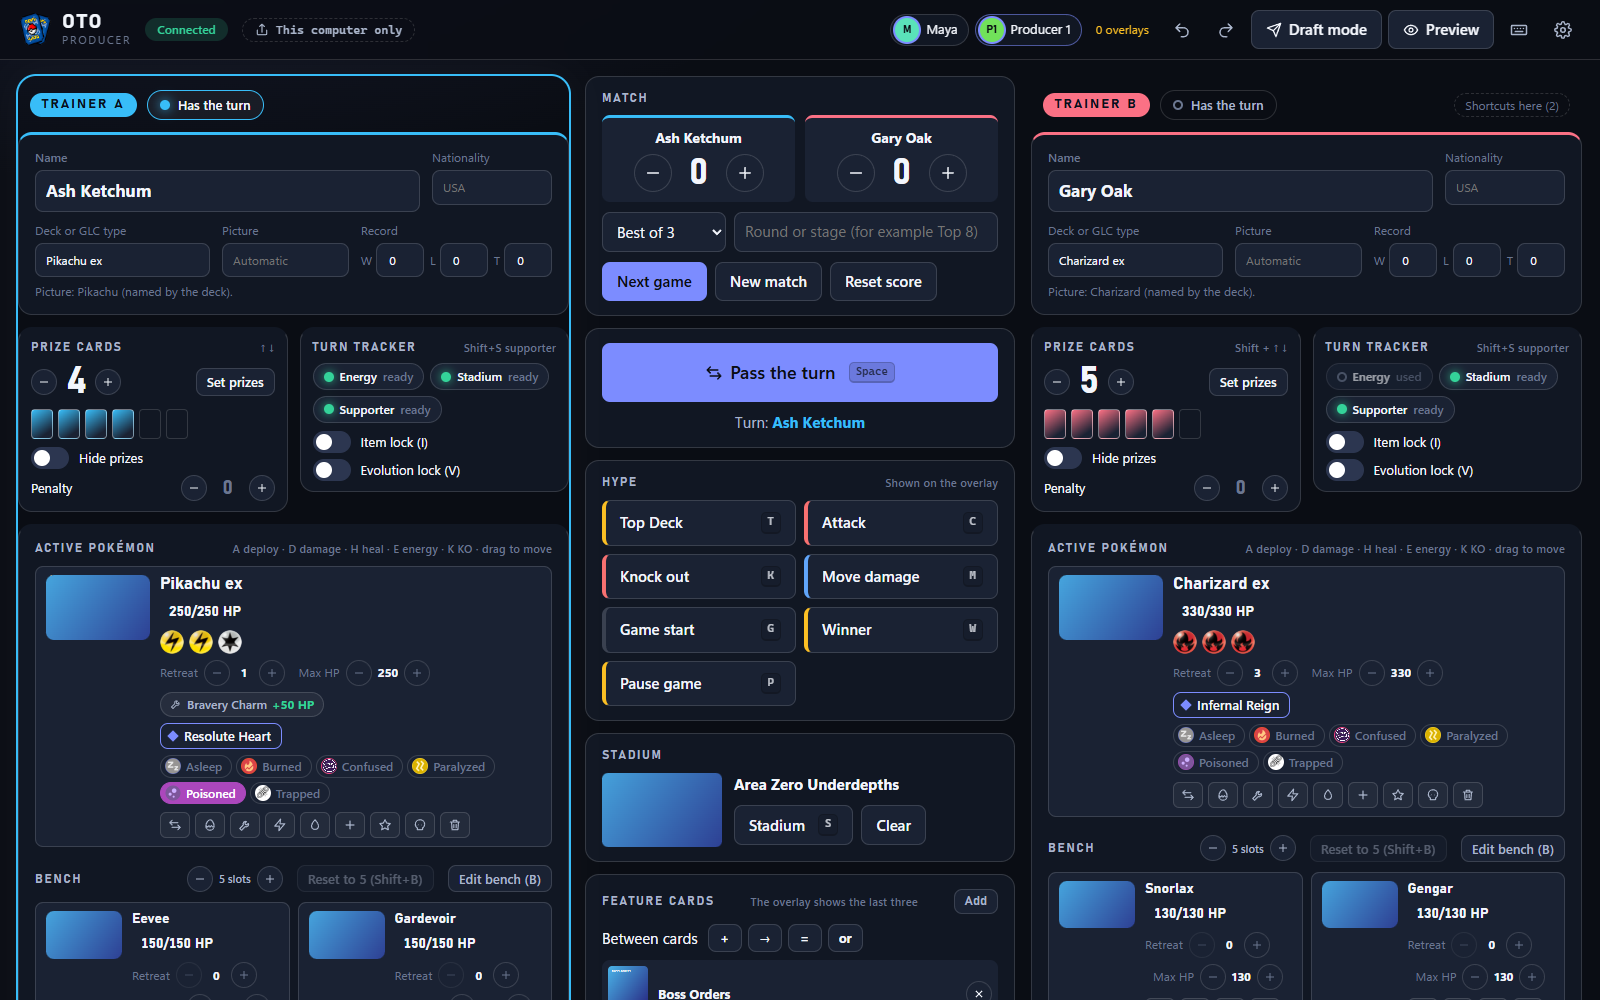
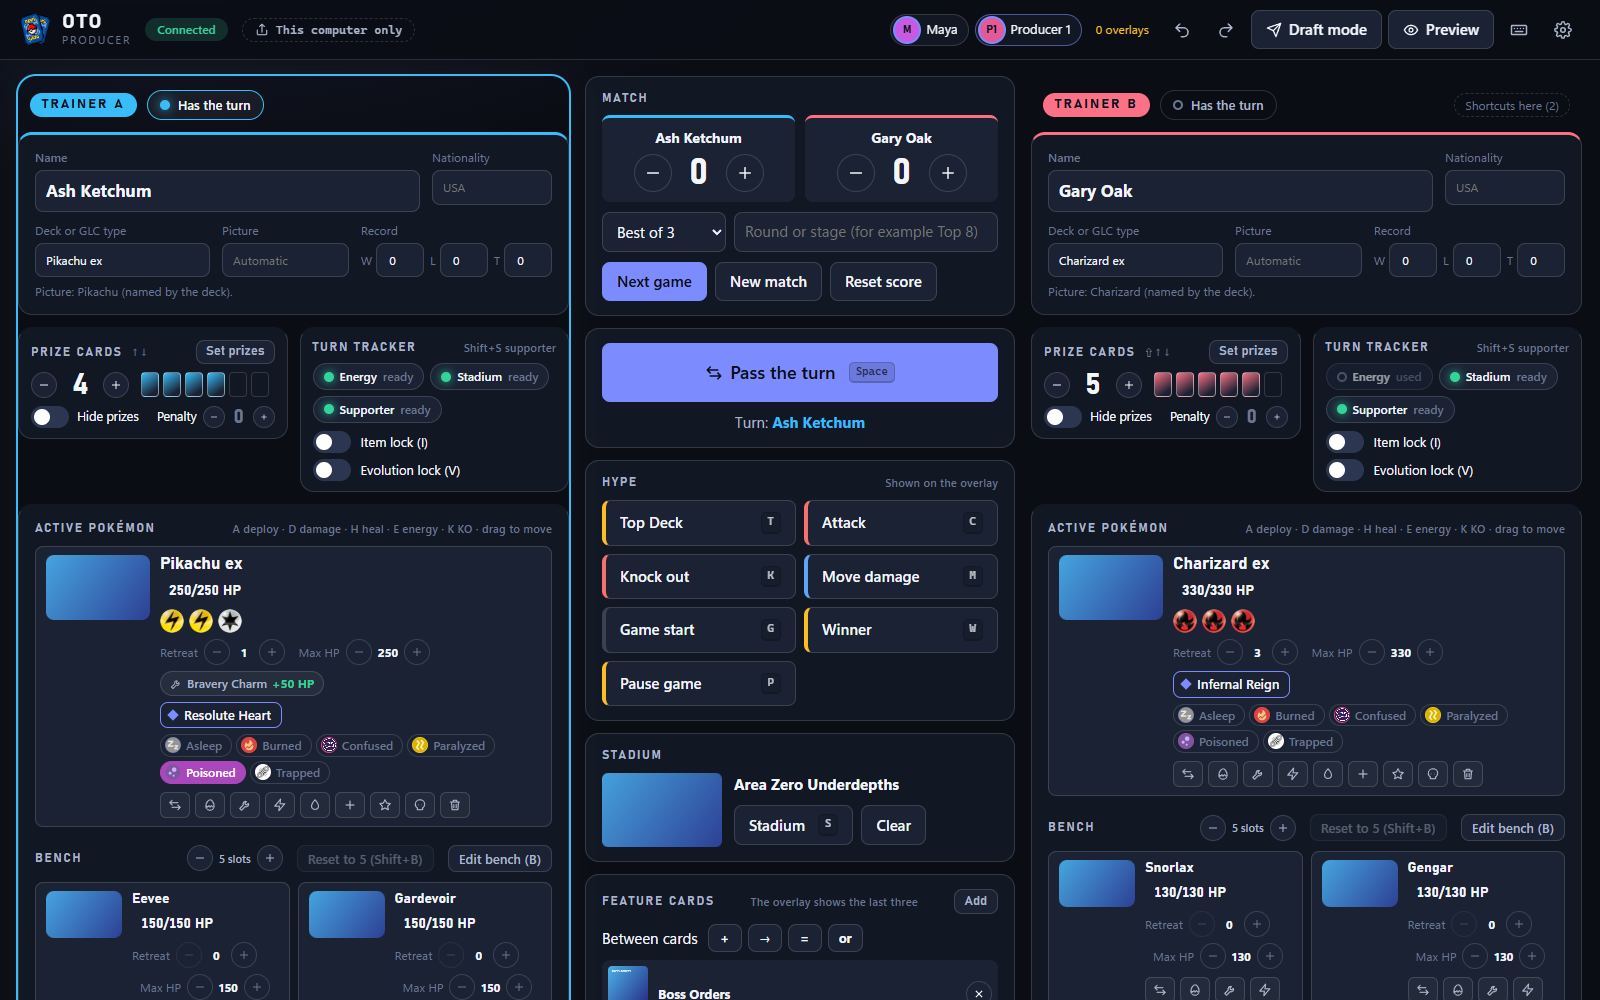
feat: a shorter Prize cards box in the control panel
The box of the prize cards in each trainer panel went from 185 px to about 112 px: the Set prizes button is in the title, the count has its six pips beside it, and the Hide prizes switch has the penalty beside it. The key hint of the second trainer is shorter (⇧ ↑ ↓) so the title stays on one line. A test keeps it short and checks that the pips, the switch and the penalty still work from their new places. README picture and CHANGELOG updated.

diff --git a/public/css/control.css b/public/css/control.css
@@ -257,12 +257,21 @@ body.drafting .trainer-panel { outline: 2px dashed rgba(251, 191, 36, 0.5); outl
 .record label { flex-direction: row; align-items: center; gap: 4px; }
 .record input { width: 48px; padding-left: 4px; padding-right: 4px; text-align: center; }
 
-.prize-row { display: flex; align-items: center; gap: 8px; }
+.prize-row { display: flex; flex-wrap: wrap; align-items: center; gap: 6px 8px; }
 .prize-row .prize-number { min-width: 22px; text-align: center; }
-.prizes.compact .pips { margin: 8px 0 0; }
-.prize-extra { display: flex; flex-direction: column; gap: 6px; margin-top: 8px; }
-.prize-extra .switch { font-size: 13px; }
-.prize-extra .penalty-row { margin-top: 0; gap: 8px; }
+/* the box of the prize cards: the title has the button that sets the cards, the count has its pips beside it, and the switch has the penalty beside it */
+.prizes.compact .block-title { margin-bottom: 6px; }
+.prizes.compact .block-title .hint { margin-left: 0; }
+.prizes.compact .block-title .set-prizes { margin-left: auto; }
+.prizes.compact .prize-number { min-width: 30px; font-size: 30px; }
+.prizes.compact .pips { gap: 4px; margin-left: 4px; }
+.prizes.compact .pip { width: 18px; height: 25px; }
+.prize-extra { display: flex; flex-wrap: wrap; align-items: center; justify-content: space-between; gap: 6px 10px; margin-top: 6px; }
+.prize-extra .switch { gap: 8px; font-size: 12.5px; }
+.prize-extra .penalty-row { margin-top: 0; gap: 6px; }
+.prize-extra .penalty-label { margin-right: 0; font-size: 12.5px; }
+.prize-extra .penalty-row .round-btn.small { width: 22px; height: 22px; }
+.prize-extra .penalty-number { min-width: 16px; }
 .prize-number { min-width: 44px; text-align: center; font: 800 38px/1 var(--font-display); font-variant-numeric: tabular-nums; }
 .pips { display: flex; gap: 5px; }
 .pip { position: relative; overflow: hidden; width: 22px; height: 30px; padding: 0; border-radius: 4px; border: 1px solid var(--border); background: transparent; transition: background var(--transition), transform var(--transition); }
@@ -757,3 +766,7 @@ body.dragging::after { content: 'Drop a .oto file to install it'; position: fixe
 /* the tabs of the crop selector (the Active Pokémon, the bench, the Stadium, the prize cards, the Tools, Special Energy): all of them show, on two rows when they do not fit on one */
 .crop-panel .segmented { display: flex; flex-wrap: wrap; }
 .crop-panel .segmented .seg { flex: 1 1 auto; padding: 7px 10px; white-space: nowrap; }
+
+/* the title of the prize cards box stays on one line: the name, the keys, and the button that sets the cards */
+.prizes.compact .block-title { flex-wrap: nowrap; white-space: nowrap; }
+.prizes.compact .block-title .set-prizes { flex: none; padding: 3px 9px; }

diff --git a/public/js/control/trainer-view.js b/public/js/control/trainer-view.js
@@ -98,15 +98,16 @@ export class TrainerView {
       return pip;
     });
     // the arrows are for the player whose turn it is, and Shift + the arrows for the other one: which keys are this trainer's follows the turn
-    this.prizeHint = h('span', { class: 'hint', title: 'The arrows are for the player whose turn it is, and Shift + the arrows for the other one' }, side === 'trainerA' ? '↑ ↓' : 'Shift + ↑ ↓');
+    this.prizeHint = h('span', { class: 'hint', title: 'The arrows are for the player whose turn it is, and Shift + the arrows for the other one' }, side === 'trainerA' ? '↑ ↓' : '⇧ ↑ ↓');
+    // (three lines: the title with the button that sets the cards, the count with its six pips, and the switch with the penalty)
     const prizes = h('section', { class: 'block prizes compact' },
-      h('div', { class: 'block-title' }, 'Prize cards', this.prizeHint),
+      h('div', { class: 'block-title' }, 'Prize cards', this.prizeHint,
+        h('button', { class: 'btn tiny set-prizes', type: 'button', title: 'Choose the cards that are the prizes: they show on the prize cards of the overlay', onclick: () => app.openPrizes(side) }, 'Set prizes')),
       h('div', { class: 'prize-row' },
         h('button', { class: 'round-btn small', type: 'button', 'aria-label': 'One prize card taken', onclick: () => act('prizeMinus') }, icon('minus', 14)),
         this.prizeCount,
         h('button', { class: 'round-btn small', type: 'button', 'aria-label': 'Give back a prize card', onclick: () => act('prizePlus') }, icon('plus', 14)),
-        h('button', { class: 'btn tiny set-prizes', type: 'button', title: 'Choose the cards that are the prizes: they show on the prize cards of the overlay', onclick: () => app.openPrizes(side) }, 'Set prizes')),
-      h('div', { class: 'pips' }, this.prizePips),
+        h('div', { class: 'pips' }, this.prizePips)),
       h('div', { class: 'prize-extra' },
         this.toggle('Hide prizes', (on) => act('togglePrizeHidden', { enabled: on }), (t) => { this.hiddenToggle = t; }),
         // a penalty of this player is a number of prize cards the OTHER player counts as taken: that many of theirs are red on the overlay,
@@ -253,7 +254,7 @@ export class TrainerView {
     setValue(this.deckInput, trainer.deck || '');
     setValue(this.pictureInput, trainer.deckIcon || '');
     this.showDeckPicture();
-    this.prizeHint.textContent = app.prizeSide(false) === this.side ? '↑ ↓' : 'Shift + ↑ ↓';
+    this.prizeHint.textContent = app.prizeSide(false) === this.side ? '↑ ↓' : '⇧ ↑ ↓';
     for (const key of ['wins', 'losses', 'ties']) setValue(this.record[key], String(trainer.record[key]));
 
     // prizes

diff --git a/test-ui/control.test.js b/test-ui/control.test.js
@@ -363,6 +363,29 @@ describe('control panel', { skip }, () => {
       await press('Escape');
     });
 
+    it('keeps the box of the prize cards short: the button in the title, the count with its pips on a line, the switch with the penalty on another', async () => {
+      for (const side of ['a', 'b']) {
+        const box = panel(side).locator('.prizes');
+        const centre = async (selector) => { const r = await box.locator(selector).first().boundingBox(); return r.y + r.height / 2; };
+        const size = await box.boundingBox();
+        assert.ok(size.height < 140, `${side}: not tall: ${size.height}px`);
+        // the button that sets the cards is in the title row
+        assert.ok(Math.abs(await centre('.set-prizes') - await centre('.block-title')) < 6, 'the button is in the title row');
+        // the count and its pips share a line
+        assert.ok(Math.abs(await centre('.prize-number') - await centre('.pips')) < 10, 'the count and the pips are on one line');
+        // the switch and the penalty share a line
+        assert.ok(Math.abs(await centre('.switch') - await centre('.penalty-row')) < 8, 'the switch and the penalty are on one line');
+        assert.equal(await box.locator('.pip').count(), 6);
+      }
+      // it all still works from its new place
+      await panel('a').locator('.pip').nth(2).click();
+      await expectLive((state) => state.trainerA.prizes.count, 3);
+      await panel('a').getByRole('button', { name: 'Penalty: one more' }).click();
+      await expectLive((state) => state.trainerA.prizes.penalty, 1);
+      await panel('a').getByRole('button', { name: 'Penalty: one less' }).click();
+      await expectLive((state) => state.trainerA.prizes.penalty, 0);
+    });
+
     it('chooses the card of a prize card with the card selector, over the dialog, and sets the cards all at once', async () => {
       await setButton('a').click();
       await dialog().waitFor();

diff --git a/CHANGELOG.md b/CHANGELOG.md
@@ -20,7 +20,7 @@ First public release of the project, named **OTO** (OBS TCG Overlay).
 - **Pokémon Tools on the overlay are the pictures of their cards** (the Trainer card's picture window, with the HP they add in a corner), a `tool` crop for designers and a **Tools** tab in the crop editor; their names as text are a switch that is off to begin with (`toolNames`), for designs that want them
 - **The egg** on a Pokémon opens **Evolution** and **Devolution** in two tabs: the cards that evolve from it, or the card it evolved from (the one on file, or the one its card says), and any other card by typing; cards now remember what they evolve from
 - Keys `W` (Winner banner) and `G` (Game start banner); abilities are no longer announced from the attack dialog (their tokens are marked with `X`)
-- A smaller **Set prizes** dialog, the deck, its picture and the record on one row of the trainer card, and room between the prize cards and the Pokémon in the control panel
+- A shorter **Prize cards** box (the button that sets the cards in its title, the count with its six pips on one line, the Hide prizes switch with the penalty on another: about 112 px instead of 185), a smaller **Set prizes** dialog, the deck, its picture and the record on one row of the trainer card, and room between the prize cards and the Pokémon in the control panel
 - **Compact control panel**: the turn tracker and the prize cards side by side, icon-only buttons and no HP bar on the Pokémon cards, GX and VSTAR markers hidden when the overlay does not show them; the prize cards show no "?" on the overlay
 - **Feature cards and signs** can be put in any order by dragging them; the card picker's star (and a right-click on a card) marks a favorite
 - Special conditions (Asleep, Burned, Confused, Paralyzed, Poisoned) and Trapped on the Active Pokémon, with icons from the assets folder; the GX attack and VSTAR Power as once-per-game markers (hidden by default, back at the end of each game)
